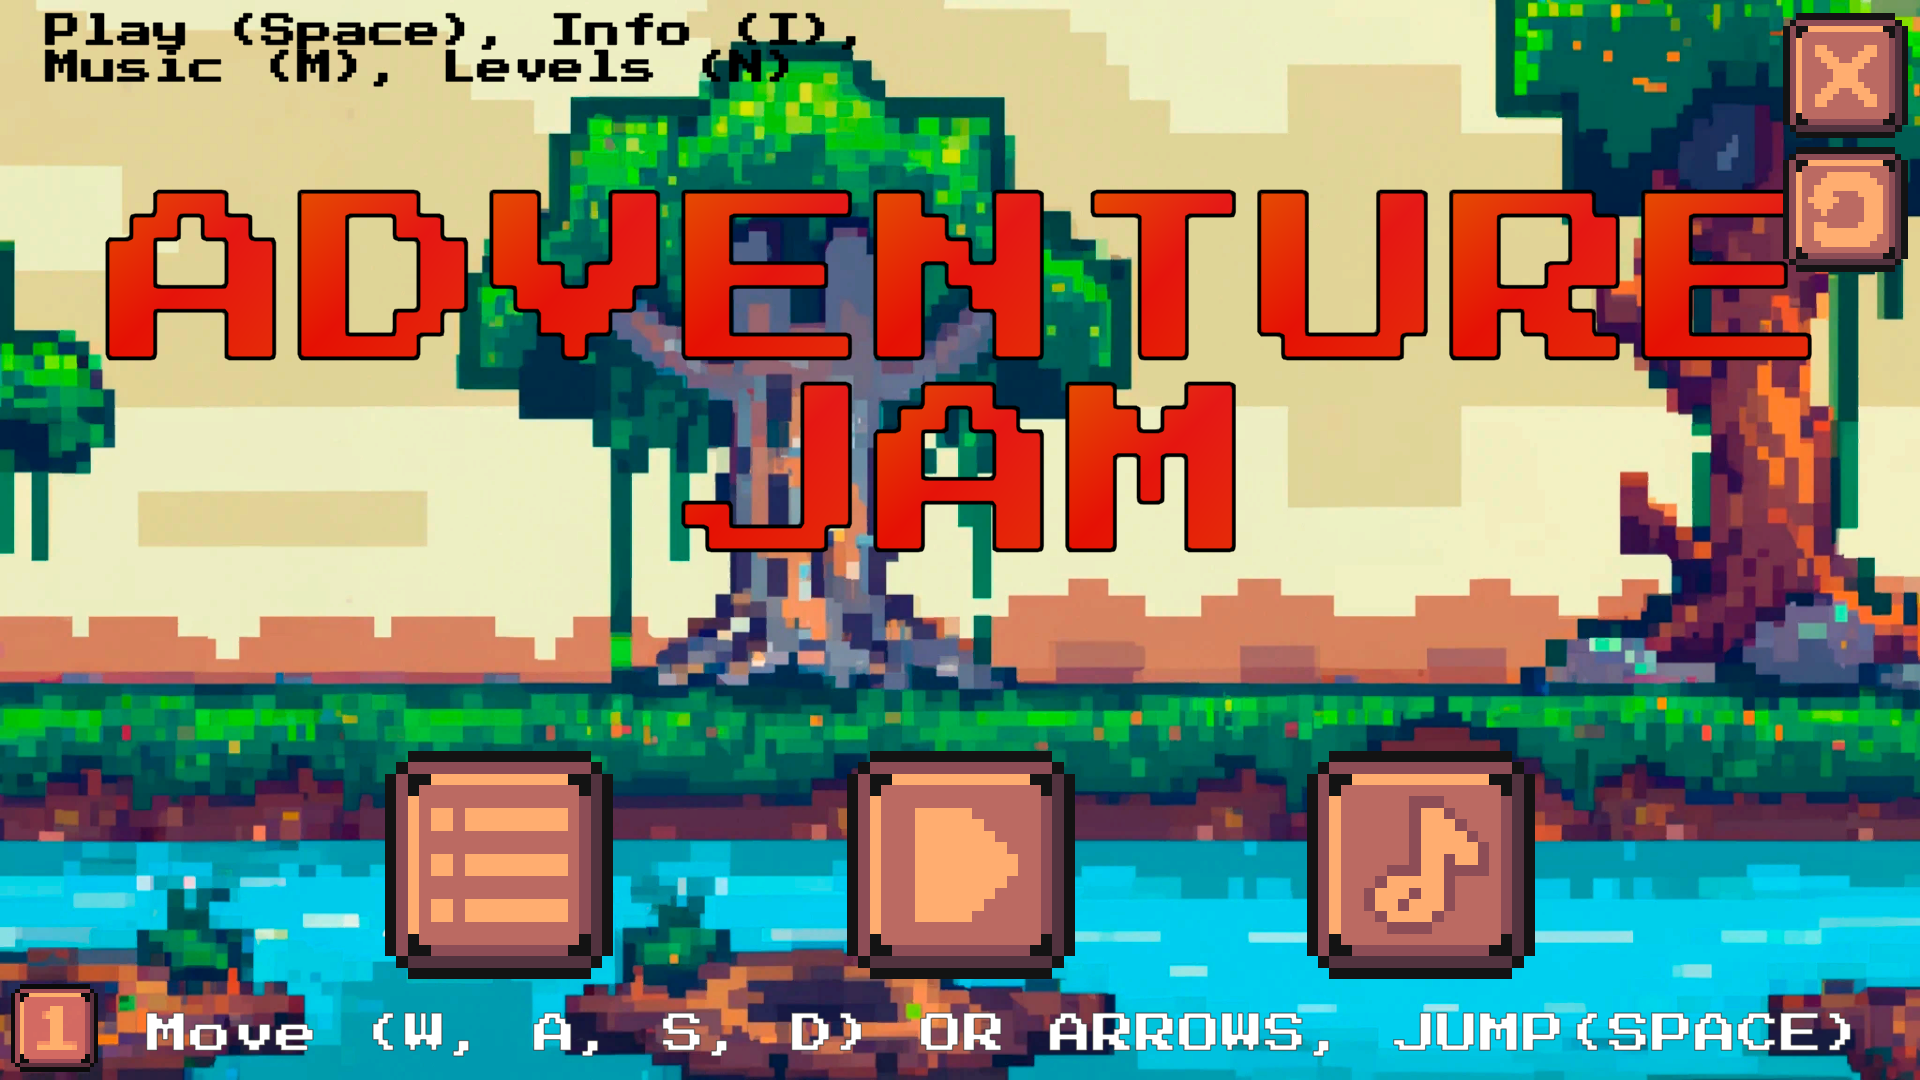
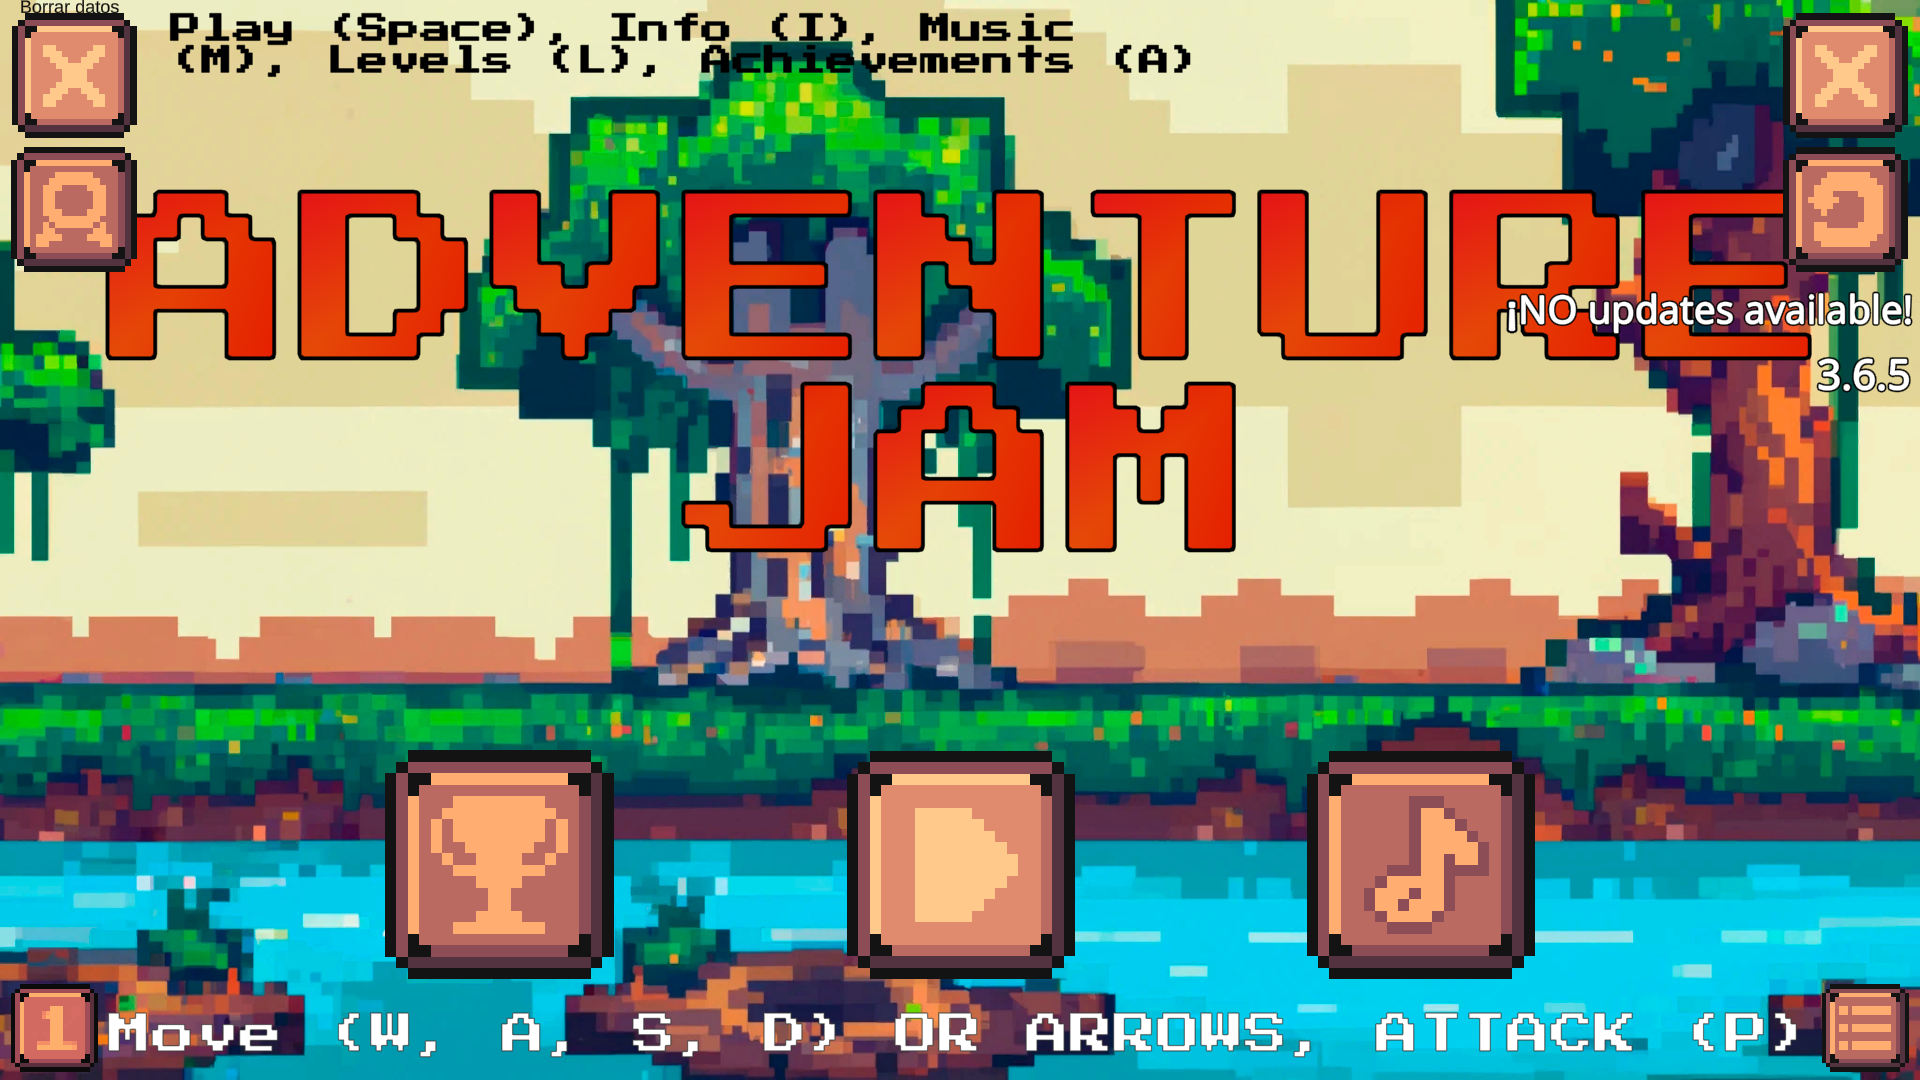
Version 3.6.5

diff --git a/README.md b/README.md
@@ -6,6 +6,9 @@ Adventure Jam is a great retro 2D platform game. The goal is to finish without g
 ![Menu](https://raw.githubusercontent.com/oriolgds/Adventure-Jam-Release/main/Screenshot%201.png)
 *Menu*
 <br><br><br>
+![Achievements](https://raw.githubusercontent.com/oriolgds/Adventure-Jam-Release/main/Screenshot%202.5.png)
+*Achievements*
+<br><br><br>
 ![Info](https://raw.githubusercontent.com/oriolgds/Adventure-Jam-Release/main/Screenshot%202.png)
 *About me*
 <br><br><br>
